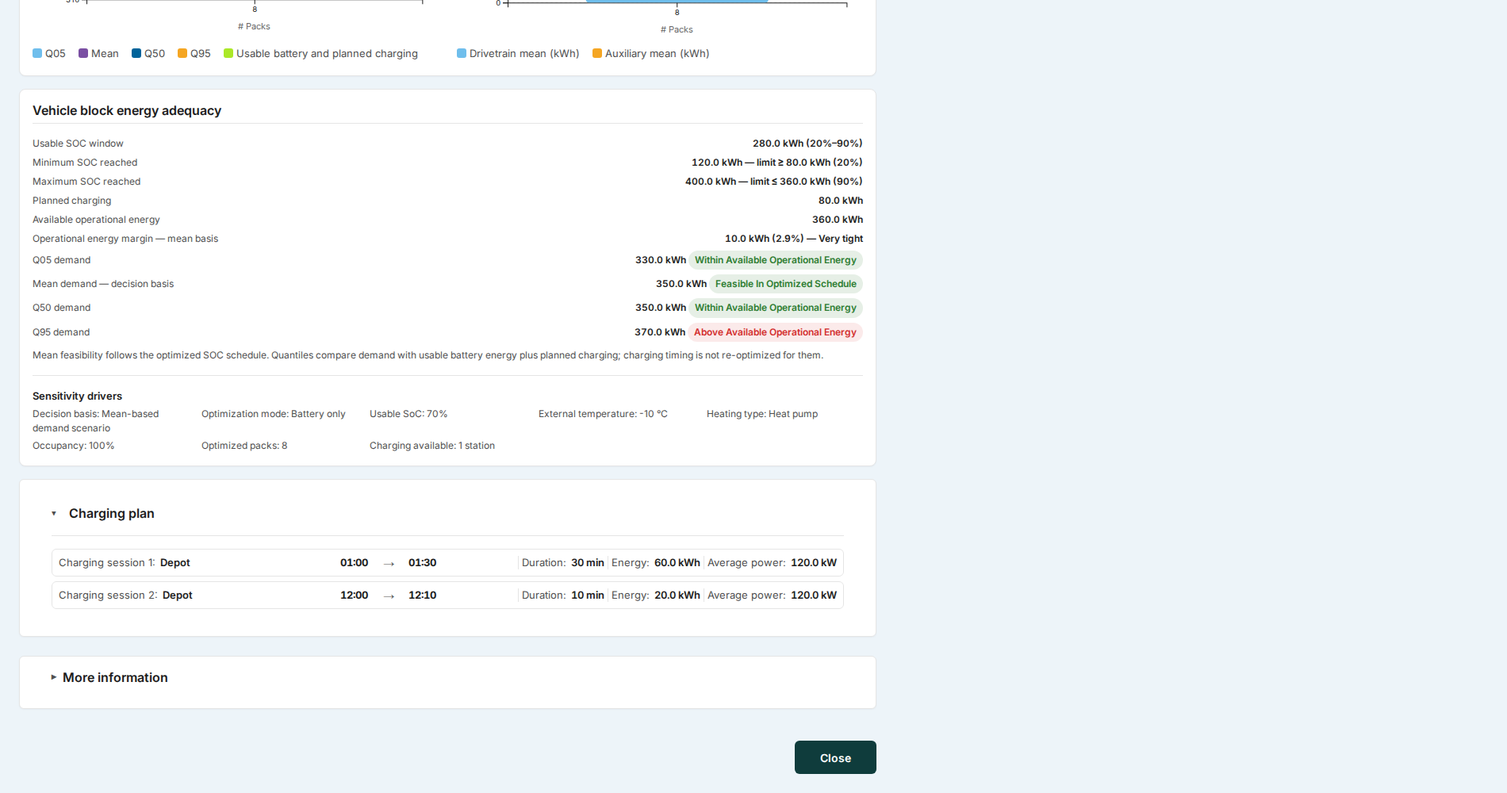
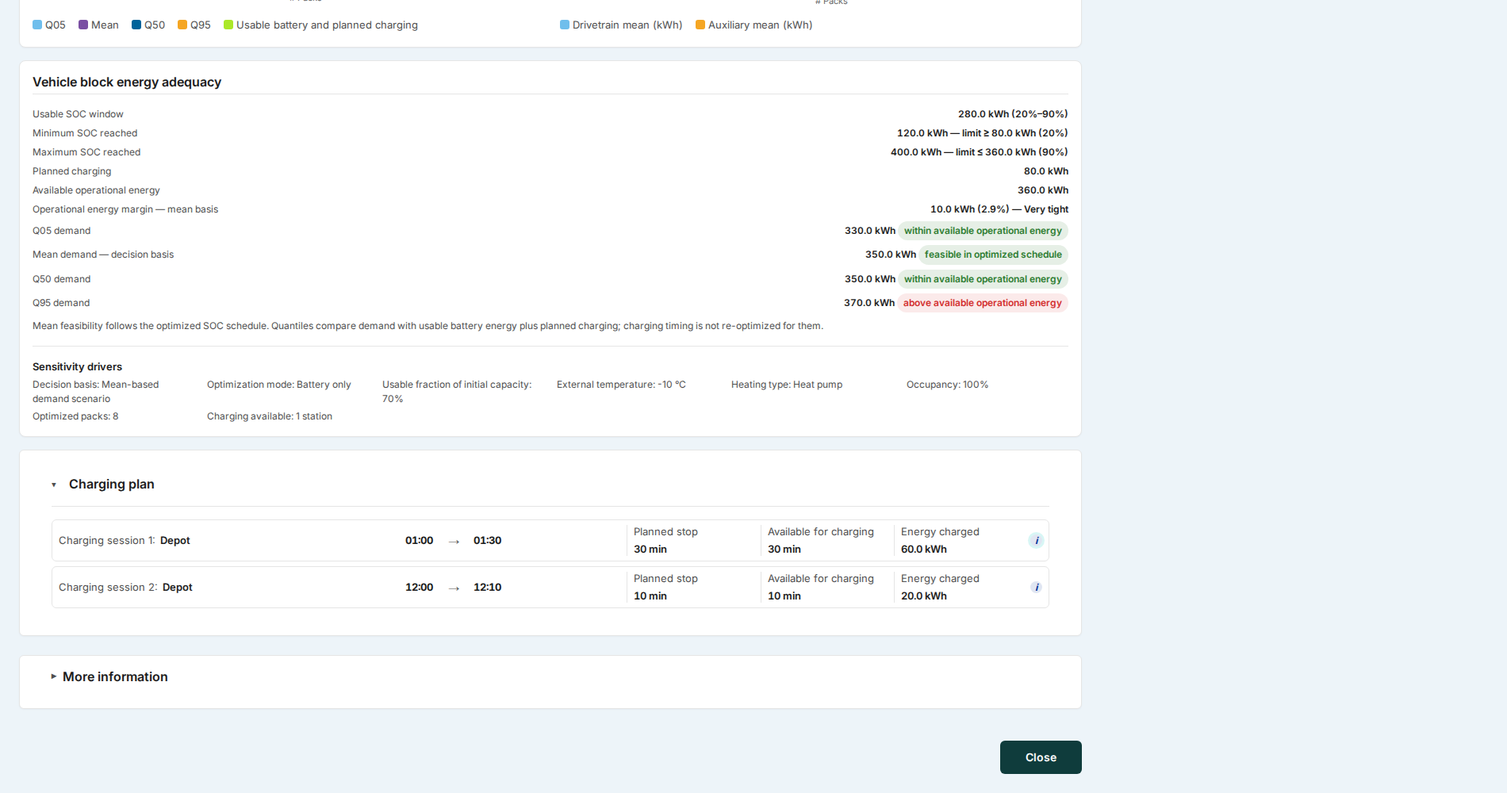
Update user guide for current feasibility and annual results

diff --git a/guide/content.js b/guide/content.js
@@ -1,7 +1,7 @@
 import { useCaseSections } from "./use-cases.js";
 
 export const GUIDE_BASELINE_VERSION = "0.11.0";
-export const GUIDE_UPDATED_AT = "13 November 2026";
+export const GUIDE_UPDATED_AT = "17 November 2026";
 
 export const SUPPORTED_GUIDE_LANGUAGES = ["en", "de", "fr", "it"];
 
@@ -54,10 +54,10 @@ const GUIDE_FIGURES = {
   feasibilityEfficiency: {
     src: feasibilityEfficiencyImage,
     captions: {
-      en: "General feasibility view with compact recorded GTFS provenance, the common battery configuration and shared charging infrastructure.",
-      de: "Allgemeine Machbarkeitsansicht mit kompakter aufgezeichneter GTFS-Herkunft, gemeinsamer Batteriekonfiguration und geteilter Ladeinfrastruktur.",
-      fr: "Vue Général de la faisabilité avec provenance GTFS enregistrée compacte, batterie commune et infrastructure de recharge partagée.",
-      it: "Vista Generale della fattibilità con provenienza GTFS registrata e compatta, configurazione comune della batteria e infrastruttura condivisa.",
+      en: "General feasibility view with compact recorded GTFS provenance, battery configurations and investment for the fleet, shared charging infrastructure, and direct raw-data access in the header.",
+      de: "Allgemeine Machbarkeitsansicht mit kompakter aufgezeichneter GTFS-Herkunft, Batteriekonfigurationen und Investitionen der Flotte, geteilter Ladeinfrastruktur und direktem Rohdatenzugriff im Kopf.",
+      fr: "Vue Général de la faisabilité avec provenance GTFS enregistrée compacte, batteries et investissements de la flotte, infrastructure partagée et accès direct aux données brutes dans l’en-tête.",
+      it: "Vista Generale della fattibilità con provenienza GTFS registrata e compatta, batterie e investimenti della flotta, infrastruttura condivisa e accesso diretto ai dati grezzi nell’intestazione.",
     },
   },
   feasibilitySizing: {
@@ -315,6 +315,7 @@ export const guideContent = {
             title: "Distinguish infeasible from not determined",
             text: "Infeasible means that the optimisation completed and rejected the design. Not determined means that the calculation stopped before producing a feasibility verdict. General lists the outcome of every selected vehicle block; each vehicle-block tab identifies the reason, any blocking vehicle block and translated How to resolve guidance. Correct the indicated source data or configuration, then run a new evaluation. One invalid vehicle block can prevent the others from being evaluated without making them infeasible.",
           },
+          {"title": "Inspect raw feasibility data", "text": "View raw feasibility data is always available at the top right of the page, in place of the close icon, in both General and vehicle-block views. It opens the saved inputs and supporting configuration in a dialog; close the dialog to return to the result. The compact SOH, Technical times, HVAC assumptions and GTFS timetable cards in the header open the corresponding saved assumptions."},
         ],
         figures: getGuideFigures("en", "feasibilityEfficiency", "feasibilitySizing"),
       },
@@ -343,7 +344,7 @@ export const guideContent = {
           },
           {
             title: "Select a vehicle block",
-            text: "A compact white row immediately below the scope selector reports yearly energy, simulated distance and average efficiency. The Efficiency view then shows temperature-dependent consumption, uncertainty and occurrence-weighted energy directly, without a redundant single-item tab.",
+            text: "A compact white row below the HVAC and GTFS information cards reports yearly energy, simulated distance and average efficiency. The Efficiency view then shows temperature-dependent consumption, uncertainty and occurrence-weighted energy directly, without a redundant single-item tab.",
           },
           {
             title: "Check weather and HVAC provenance",
@@ -357,6 +358,8 @@ export const guideContent = {
             title: "Recognise aggregate-only historical results",
             text: "An older analysis that contains no per-vehicle block breakdown can show General only. ELETTRA leaves unavailable vehicle block details absent instead of inventing them from aggregate totals.",
           },
+          {"title": "Set charging infrastructure maintenance", "text": "In Costs → Edit economic assumptions → Additional economic parameters, choose a percentage of charging investment per year or a fixed amount in CHF/year. The percentage is editable: 2%/year is the default, with the INFRAS 2026 reference range of 2–5%. It is not CHF 2/year. Check the saved method and units, especially for historical analyses; a fixed amount of zero means no infrastructure maintenance cost is included. The percentage applies to the full charging investment and maintenance is counted once per fleet, excluding buses and batteries; the tooltip explains this modelling assumption."},
+          {"title": "Read the calculation boundaries", "text": "Additional economic parameters contains the editable maintenance method, horizon, discount rate, diesel purchase price and component lifetimes. Calculation method and boundaries separately explains TCO, time horizon, residual values and assessment limits; use it to interpret the results."},
         ],
         figures: getGuideFigures("en", "yearlyEfficiency", "yearlyEmissions"),
         note: {
@@ -430,7 +433,7 @@ export const guideContent = {
       baselineLabel: "Stand der Benutzeroberfläche",
       baselineValue: `Frontend v${GUIDE_BASELINE_VERSION}`,
       updatedLabel: "Handbuch aktualisiert",
-      updatedValue: "13. November 2026",
+      updatedValue: "17. November 2026",
       footer:
         "ELETTRA unterstützt Vorstudien. Endgültige Fahrzeug-, Lade-, Netz- und Infrastrukturentscheidungen müssen durch eine detaillierte Fachplanung bestätigt werden.",
       skipLink: "Zum Handbuch springen",
@@ -539,6 +542,7 @@ export const guideContent = {
           { title: "Ladeplan prüfen", text: "Prüfen Sie Ort, Zeit und Tagesversatz jedes Ladevorgangs. Karten zeigen nur Geplanter Halt, Zum Laden verfügbar und Geladene Energie. Der Tooltip Ladedetails enthält Anschliessen/Trennen, Verspätungspuffer, aktive und inaktive Ladezeit sowie mittlere Leistung. Die verfügbare Zeit gilt nach Abzügen; das tatsächliche Laden kann kürzer sein. Bei Verbindung während des gesamten Halts ist der geplante Halt gemeint; historische frei verbundene Vorgänge können nur das angeschlossene Intervall beschreiben. Nur Batterie kann einen festen oder keinen Plan zeigen." },
           { title: "Bei Bedarf Weitere Informationen öffnen", text: "Ladeplan und Weitere Informationen sind aufklappbare weisse Karten. Sie enthalten Ladevorgänge, Prognosedetails, Betriebsannahmen, konfigurierte SOC-Grenzen und unterstützende Werte. Wenn ein Fahrzeugumlauf nicht abgedeckt ist, ändern Sie Fahrzeug, Ladezustandsfenster, Szenario oder Ladeauslegung und führen Sie eine separat benannte Bewertung aus." },
           { title: "Nicht machbar und Nicht bestimmt unterscheiden", text: "Nicht machbar bedeutet, dass die Optimierung abgeschlossen und die Auslegung verworfen wurde. Nicht bestimmt bedeutet, dass die Berechnung vor einem Machbarkeitsurteil abgebrochen ist. Allgemein zeigt das Ergebnis jedes ausgewählten Fahrzeugumlaufs; die jeweilige Registerkarte nennt den Grund, blockierende Fahrzeugumläufe und übersetzte Hinweise unter So beheben Sie das Problem. Korrigieren Sie die angegebenen Ausgangsdaten oder die Konfiguration und starten Sie eine neue Bewertung. Ein ungültiger Fahrzeugumlauf kann die Bewertung der anderen verhindern, ohne dass diese dadurch nicht machbar sind." },
+          {"title": "Rohdaten der Machbarkeit prüfen", "text": "Rohdaten der Machbarkeitsbewertung anzeigen steht oben rechts anstelle des Schliessen-Symbols zur Verfügung, sowohl unter Allgemein als auch bei jedem Fahrzeugumlauf. Die Schaltfläche öffnet gespeicherte Eingaben und Konfigurationsdetails in einem Dialog; schliessen Sie ihn, um zum Ergebnis zurückzukehren. Die kompakten Karten für SOH, technische Zeiten, HVAC-Annahmen und GTFS-Fahrplan im Kopf öffnen die jeweiligen gespeicherten Annahmen."},
         ],
         figures: getGuideFigures("de", "feasibilityEfficiency", "feasibilitySizing"),
       },
@@ -552,10 +556,12 @@ export const guideContent = {
           { title: "Übernommene Eingaben prüfen", text: "Prüfen Sie Bewertung, Betriebsannahmen, repräsentative Temperaturen und deren Häufigkeiten vor dem Start. Temperaturszenarien verändern Verbrauchsschätzungen; sie dimensionieren die Batterie nicht neu, ändern die Ladeinfrastruktur nicht und wiederholen die Machbarkeitsentscheidung nicht." },
           { title: "Mit Allgemein beginnen", text: "Die kompakte jährliche Flottenanalyse zeigt Distanz, Bus- und Netzenergie, minimale/maximale Umlaufeffizienz, Elektro-TCO und Klimawirkung. Mit Repräsentativer Bus / Flotte prüfen Sie die gesamte Flotte oder eine Gruppe mit gleichem Modell und gleicher Batteriegrösse; die Zuweisungen aus der Machbarkeit bleiben unverändert." },
           { title: "Kosten und Emissionen der Flotte prüfen", text: "Kosten kombiniert eine kompakte TCO-Zeile, Jahres- und kumulative Diagramme, Kostengleichheit und Detailtabellen. Bus- und Batterie-CAPEX gehören vollständig zu den physischen Fahrzeugen im gewählten Bereich; die gemeinsame Ladeinfrastruktur wird einmal für die Flotte gezählt und nur ihre Kosten werden repräsentativen Busgruppen auf Basis der jährlichen DC-Energie zugeordnet. Emissionen zeigt Balken nach Lebenszyklusphase und Umweltindikatoren. Die aufklappbaren Annahmen stehen unter den Diagrammen, verwenden automatisch gespeicherte gemeinsame Werte und starten die Machbarkeit nie neu." },
-          { title: "Einen Fahrzeugumlauf auswählen", text: "Direkt unter der Bereichsauswahl zeigt eine kompakte weisse Zeile Jahresenergie, simulierte Distanz und mittlere Effizienz. Danach erscheint Effizienz mit temperaturabhängigem Verbrauch, Unsicherheit und häufigkeitsgewichteter Energie direkt, ohne überflüssige Registerkarte mit nur einem Eintrag." },
+          { title: "Einen Fahrzeugumlauf auswählen", text: "Unter den HVAC- und GTFS-Informationskarten zeigt eine kompakte weisse Zeile Jahresenergie, simulierte Distanz und mittlere Effizienz. Danach erscheint Effizienz mit temperaturabhängigem Verbrauch, Unsicherheit und häufigkeitsgewichteter Energie direkt, ohne überflüssige Registerkarte mit nur einem Eintrag." },
           { title: "Wetter- und HVAC-Herkunft prüfen", text: "Die kompakten GTFS- und HVAC-Angaben nennen Fahrplan und gespeicherte Nebenverbrauchspolitik. Die Jahresanalyse verwendet stündliche PVGIS-GHI in der lokalen GTFS-Zeitzone und weist HVAC-Energie während Fahrt und Endaufenthalt aus; Nachvollziehbarkeit und JSON-Aktionen liefern Annahmen und vollständige Reproduktionseingaben." },
           { title: "Konfiguration prüfen und unter Allgemein exportieren", text: "Konfigurationsdaten anzeigen öffnet die festgeschriebene Auslegung. Alle Ergebnisse herunterladen steht nur unter Allgemein neben Schliessen zur Verfügung und speichert Allgemein sowie einen eigenen Eintrag für jeden verfügbaren Fahrzeugumlauf." },
           { title: "Nur aggregierte historische Ergebnisse erkennen", text: "Eine ältere Analyse ohne Aufschlüsselung nach Fahrzeugumläufen kann nur Allgemein anzeigen. ELETTRA lässt nicht verfügbare Fahrzeugumlaufdetails weg, statt sie aus Gesamtsummen zu erfinden." },
+          {"title": "Wartung der Ladeinfrastruktur einstellen", "text": "Unter Kosten → Wirtschaftliche Annahmen bearbeiten → Weitere wirtschaftliche Parameter wählen Sie einen jährlichen Prozentsatz der Ladeinvestition oder einen Festbetrag in CHF/Jahr. Der Prozentsatz ist editierbar: Standard sind 2%/Jahr, mit dem INFRAS-2026-Richtbereich von 2–5%. Das bedeutet nicht CHF 2/Jahr. Prüfen Sie gespeicherte Methode und Einheiten, besonders bei älteren Analysen; ein Festbetrag von null berücksichtigt keine Infrastrukturwartung. Die Prozentmethode bezieht sich auf die gesamte Ladeinvestition; Wartung wird einmal pro Flotte gezählt, ohne Busse und Batterien. Der Tooltip erklärt diese Modellannahme."},
+          {"title": "Berechnungsgrenzen lesen", "text": "Weitere wirtschaftliche Parameter enthält die editierbare Wartungsmethode, Betrachtungsdauer, den Diskontsatz, Diesel-Kaufpreis und Komponentenlebensdauern. Berechnungsmethode und Abgrenzung erklärt separat TCO, Zeitrahmen, Restwerte und Bewertungsgrenzen zur Interpretation der Ergebnisse."},
         ],
         figures: getGuideFigures("de", "yearlyEfficiency", "yearlyEmissions"),
         note: { title: "Fahrzeug hier nicht neu dimensionieren", text: "Die Jahresanalyse beschreibt den Betrieb des an der Machbarkeitsschwelle gewählten Designs. Kehren Sie zur Machbarkeitsbewertung zurück, wenn Fahrzeug, Batterie oder Laden geändert werden sollen." },
@@ -600,7 +606,7 @@ export const guideContent = {
       baselineLabel: "Version de référence de l’interface",
       baselineValue: `Frontend v${GUIDE_BASELINE_VERSION}`,
       updatedLabel: "Guide mis à jour",
-      updatedValue: "13 novembre 2026",
+      updatedValue: "17 novembre 2026",
       footer:
         "ELETTRA soutient les études de préfaisabilité. Les décisions finales relatives aux véhicules, à la recharge, au réseau et aux infrastructures doivent être confirmées par des études d’ingénierie détaillées.",
       skipLink: "Accéder au guide",
@@ -695,6 +701,7 @@ export const guideContent = {
           { title: "Contrôler le plan de recharge", text: "Vérifiez lieu, heure et décalage de jour de chaque session. Les cartes affichent uniquement Arrêt planifié, Disponible pour la recharge et Énergie rechargée. L’infobulle Détails de recharge contient connexion/déconnexion, marge pour retards, durées active et inactive, et puissance moyenne. Le temps disponible tient compte des déductions ; la recharge effective peut être plus courte. La connexion pendant tout l’arrêt décrit l’arrêt planifié ; les anciennes sessions à connexion libre peuvent décrire seulement l’intervalle connecté. Batterie uniquement peut afficher un plan fixe ou absent." },
           { title: "Ouvrir Plus d’informations si nécessaire", text: "Plan de recharge et Plus d’informations sont des cartes blanches dépliables. Elles contiennent sessions, détails des prévisions, hypothèses d’exploitation, limites SOC configurées et valeurs justificatives. Si un service voiture échoue, modifiez le véhicule, la fenêtre d’état de charge, le scénario ou la recharge et lancez une évaluation portant un autre nom." },
           { title: "Distinguer non faisable de non déterminée", text: "Non faisable signifie que l’optimisation s’est terminée et a rejeté le dimensionnement. Non déterminée signifie que le calcul s’est arrêté avant de produire un verdict de faisabilité. Général présente le résultat de chaque service voiture sélectionné; l’onglet correspondant indique le motif, les services bloquants et des conseils traduits sous Comment résoudre le problème. Corrigez les données sources ou la configuration indiquées, puis lancez une nouvelle évaluation. Un service voiture non valide peut empêcher l’évaluation des autres sans les rendre non faisables." },
+          {"title": "Consulter les données brutes de faisabilité", "text": "Afficher les données brutes de faisabilité est disponible en haut à droite, à la place de l’icône de fermeture, dans Général comme dans chaque service voiture. Le bouton ouvre les entrées enregistrées et la configuration détaillée dans une fenêtre ; fermez-la pour revenir au résultat. Les cartes compactes SOH, Temps techniques, Hypothèses HVAC et Horaire GTFS de l’en-tête ouvrent les hypothèses enregistrées correspondantes."},
         ],
         figures: getGuideFigures("fr", "feasibilityEfficiency", "feasibilitySizing"),
       },
@@ -708,10 +715,12 @@ export const guideContent = {
           { title: "Vérifier les données héritées", text: "Contrôlez l’évaluation, les hypothèses d’exploitation, les températures représentatives et leurs occurrences avant le calcul. Les scénarios de température modifient la consommation; ils ne redimensionnent pas la batterie, ne changent pas l’infrastructure et ne répètent pas la décision de faisabilité." },
           { title: "Commencer par Général", text: "L’analyse annuelle compacte de la flotte présente distance, énergie au bus et au réseau, efficacité minimale/maximale des services, TCO électrique et impact climatique. Bus représentatif / Flotte permet d’examiner la flotte entière ou un groupe partageant modèle et taille de batterie; les affectations de faisabilité ne changent pas." },
           { title: "Examiner les Coûts et les Émissions de la flotte", text: "Coûts combine une ligne TCO compacte, des graphiques annuels et cumulés, le seuil de rentabilité et des tableaux détaillés. Les CAPEX des bus et batteries appartiennent intégralement aux véhicules physiques du périmètre; l’infrastructure partagée est comptée une fois pour la flotte et seul son coût est attribué aux groupes représentatifs selon l’énergie DC annuelle. Émissions montre les barres par phase du cycle de vie et les indicateurs environnementaux. Les hypothèses dépliables sont sous les graphiques, partagent des valeurs enregistrées automatiquement et ne relancent jamais la faisabilité." },
-          { title: "Sélectionner un service voiture", text: "Une ligne blanche compacte, directement sous le sélecteur, indique énergie annuelle, distance simulée et efficacité moyenne. Efficacité présente ensuite directement consommation selon la température, incertitude et énergie pondérée, sans onglet redondant à élément unique." },
+          { title: "Sélectionner un service voiture", text: "Une ligne blanche compacte, sous les volets HVAC et GTFS, indique énergie annuelle, distance simulée et efficacité moyenne. Efficacité présente ensuite directement consommation selon la température, incertitude et énergie pondérée, sans onglet redondant à élément unique." },
           { title: "Vérifier la provenance météo et HVAC", text: "Les volets GTFS et HVAC compacts identifient l’horaire et la politique d’auxiliaires enregistrés. L’analyse annuelle utilise le GHI PVGIS horaire dans le fuseau GTFS local et indique l’énergie HVAC en course et au terminus; la traçabilité et les actions JSON donnent les hypothèses et les entrées complètes de reproduction." },
           { title: "Examiner la configuration et exporter depuis Général", text: "Afficher les données de configuration ouvre le dimensionnement figé. Télécharger tous les résultats apparaît uniquement dans Général, près de Fermer, et enregistre Général ainsi qu’une entrée distincte pour chaque service voiture disponible." },
           { title: "Reconnaître les anciens résultats uniquement agrégés", text: "Une ancienne analyse sans ventilation par service voiture peut n’afficher que Général. ELETTRA laisse absents les détails indisponibles au lieu de les inventer à partir des totaux." },
+          {"title": "Définir la maintenance de la recharge", "text": "Dans Coûts → Modifier les hypothèses économiques → Paramètres économiques supplémentaires, choisissez un pourcentage annuel de l’investissement de recharge ou un montant fixe en CHF/an. Le pourcentage est modifiable : 2%/an est la valeur initiale, avec la référence INFRAS 2026 de 2–5%. Il ne s’agit pas de CHF 2/an. Vérifiez la méthode enregistrée et les unités, surtout pour les anciennes analyses ; un montant fixe nul exclut la maintenance de l’infrastructure. Le pourcentage porte sur l’investissement complet de recharge, avec un entretien compté une seule fois par flotte, hors bus et batteries ; l’infobulle explique cette hypothèse."},
+          {"title": "Lire le périmètre de calcul", "text": "Paramètres économiques supplémentaires contient la méthode de maintenance, l’horizon, le taux d’actualisation, le prix d’achat diesel et les durées de vie modifiables. Méthode de calcul et périmètre explique séparément TCO, horizon temporel, valeurs résiduelles et limites de l’évaluation pour interpréter les résultats."},
         ],
         figures: getGuideFigures("fr", "yearlyEfficiency", "yearlyEmissions"),
         note: { title: "Ne pas redimensionner le véhicule ici", text: "L’analyse annuelle représente l’exploitation du design retenu lors de l’évaluation de faisabilité. Revenez à cette évaluation si le véhicule, la batterie ou la recharge doivent changer." },
@@ -756,7 +765,7 @@ export const guideContent = {
       baselineLabel: "Versione di riferimento dell’interfaccia",
       baselineValue: `Frontend v${GUIDE_BASELINE_VERSION}`,
       updatedLabel: "Guida aggiornata",
-      updatedValue: "13 novembre 2026",
+      updatedValue: "17 novembre 2026",
       footer:
         "ELETTRA supporta studi di prefattibilità. Le decisioni finali su veicoli, ricarica, rete e infrastrutture devono essere confermate mediante una progettazione tecnica dettagliata.",
       skipLink: "Vai alla guida",
@@ -851,6 +860,7 @@ export const guideContent = {
           { title: "Verificare il piano di ricarica", text: "Controllare luogo, ora e giorno di ogni sessione. Le schede mostrano solo Sosta pianificata, Disponibile per la ricarica ed Energia ricaricata. Il tooltip Dettagli di ricarica contiene collegamento/scollegamento, margine per ritardi, tempo attivo e inattivo e potenza media. Il tempo disponibile considera le detrazioni; la ricarica effettiva può durare meno. Con connessione per l’intera sosta si descrive la sosta pianificata; le sessioni storiche a connessione libera possono descrivere solo l’intervallo connesso. Solo batteria può mostrare un piano fisso o assente." },
           { title: "Aprire Maggiori informazioni quando serve", text: "Piano di ricarica e Maggiori informazioni sono schede bianche espandibili. Contengono sessioni, dettagli delle previsioni, ipotesi operative, limiti SOC configurati e valori di supporto. Se un turno macchina non è coperto, modificare veicolo, intervallo SOC, scenario o progetto di ricarica ed eseguire una valutazione con un nome distinto." },
           { title: "Distinguere non fattibile da non determinata", text: "Non fattibile significa che l’ottimizzazione è terminata e ha escluso la configurazione. Non determinata significa che il calcolo si è interrotto prima di produrre un verdetto di fattibilità. Generale mostra l’esito di ogni turno macchina selezionato; la relativa scheda indica il motivo, gli eventuali turni bloccanti e i suggerimenti tradotti sotto Come risolvere. Correggere i dati di origine o la configurazione indicati, quindi eseguire una nuova valutazione. Un turno macchina non valido può impedire la valutazione degli altri senza renderli non fattibili." },
+          {"title": "Consultare i dati grezzi di fattibilità", "text": "Visualizza i dati grezzi di fattibilità è sempre disponibile in alto a destra, al posto dell’icona di chiusura, sia in Generale sia nei singoli turni macchina. Il pulsante apre gli input salvati e i dettagli di configurazione in una finestra; chiuderla per tornare ai risultati. I riquadri compatti SOH, Tempi tecnici, Ipotesi HVAC e Orario GTFS nell’intestazione aprono le rispettive ipotesi salvate."},
         ],
         figures: getGuideFigures("it", "feasibilityEfficiency", "feasibilitySizing"),
       },
@@ -864,10 +874,12 @@ export const guideContent = {
           { title: "Verificare gli input ereditati", text: "Controllare la valutazione, le ipotesi operative, le temperature rappresentative e le loro occorrenze prima dell’avvio. Gli scenari di temperatura cambiano le stime di consumo; non ridimensionano la batteria, non modificano l’infrastruttura e non ripetono la decisione di fattibilità." },
           { title: "Iniziare da Generale", text: "L’Analisi annuale della flotta mostra in modo compatto distanza, energia ai bus e dalla rete, efficienza minima/massima dei turni, TCO elettrico e impatto climatico. Bus rappresentativo / Flotta consente di esaminare la flotta completa o un gruppo con lo stesso modello e la stessa batteria; le assegnazioni della fattibilità non cambiano." },
           { title: "Esaminare Costi ed Emissioni della flotta", text: "Costi combina una riga TCO compatta, grafici annui e cumulati, pareggio e tabelle di dettaglio. I CAPEX di autobus e batterie appartengono integralmente ai veicoli fisici nell’ambito selezionato; l’infrastruttura condivisa è conteggiata una sola volta per la flotta e solo il suo costo viene allocato ai gruppi rappresentativi in base all’energia DC annuale. Emissioni mostra barre per fase del ciclo di vita e indicatori ambientali. Le ipotesi espandibili sono sotto i grafici, condividono valori salvati automaticamente e non rilanciano mai la fattibilità." },
-          { title: "Selezionare un turno macchina", text: "Una riga bianca compatta subito sotto il selettore riporta energia annuale, distanza simulata ed efficienza media. Efficienza mostra quindi direttamente consumo in funzione della temperatura, incertezza ed energia ponderata, senza una tab ridondante con un solo elemento." },
+          { title: "Selezionare un turno macchina", text: "Una riga bianca compatta sotto i riquadri informativi HVAC e GTFS riporta energia annuale, distanza simulata ed efficienza media. Efficienza mostra quindi direttamente consumo in funzione della temperatura, incertezza ed energia ponderata, senza una tab ridondante con un solo elemento." },
           { title: "Verificare la provenienza meteo e HVAC", text: "I riquadri compatti GTFS e HVAC identificano orario e politica degli ausiliari salvati. L’analisi annuale usa il GHI orario PVGIS nel fuso GTFS locale e riporta energia HVAC in corsa e al capolinea; tracciabilità e azioni JSON espongono ipotesi e input completi di riproduzione." },
           { title: "Esaminare la configurazione ed esportare da Generale", text: "Visualizza dati di configurazione apre il progetto congelato. Scarica tutti i risultati compare solo in Generale, vicino a Chiudi, e salva Generale più una voce separata per ogni turno macchina disponibile." },
           { title: "Riconoscere i risultati storici solo aggregati", text: "Un’analisi precedente priva del dettaglio per turno macchina può mostrare soltanto Generale. ELETTRA lascia assenti i dettagli non disponibili invece di ricavarli artificialmente dai totali." },
+          {"title": "Impostare la manutenzione della ricarica", "text": "In Costi → Modifica ipotesi economiche → Parametri economici aggiuntivi, scegliere una percentuale annua dell’investimento di ricarica oppure un importo fisso in CHF/anno. La percentuale è modificabile: il valore iniziale è 2%/anno, con riferimento all’intervallo INFRAS 2026 del 2–5%. Non significa CHF 2/anno. Verificare metodo salvato e unità, soprattutto nelle analisi storiche; un importo fisso pari a zero esclude il costo di manutenzione dell’infrastruttura. La percentuale si applica all’investimento completo della ricarica, con manutenzione conteggiata una volta per flotta, esclusi autobus e batterie; il tooltip spiega questa ipotesi di modello."},
+          {"title": "Leggere il perimetro di calcolo", "text": "Parametri economici aggiuntivi contiene metodo di manutenzione, orizzonte, tasso di sconto, prezzo di acquisto diesel e durate dei componenti modificabili. Metodo di calcolo e perimetro spiega separatamente TCO, tempi, valori residui e limiti della valutazione per interpretare i risultati."},
         ],
         figures: getGuideFigures("it", "yearlyEfficiency", "yearlyEmissions"),
         note: { title: "Non ridimensionare qui il veicolo", text: "L’analisi annuale rappresenta l’esercizio del progetto scelto nella valutazione di fattibilità. Tornare alla fattibilità se occorre cambiare veicolo, batteria o ricarica." },

diff --git a/docs/user-guide/yearly-analysis.md b/docs/user-guide/yearly-analysis.md
@@ -1,6 +1,6 @@
 # Yearly Analysis
 
-> Last updated: 2026-11-10
+> Last updated: 2026-11-17
 > Interface baseline: Frontend v0.11.0
 
 A yearly analysis keeps the bus, battery, and charging design selected by a
@@ -94,6 +94,23 @@ are saved automatically in the yearly analysis and reused by Costs and
 Emissions. They update the displayed assessment but do not rerun feasibility or
 alter the selected technical design.
 
+Inside this card, **Additional economic parameters** contains maintenance,
+the assessment horizon, discount rate, diesel purchase price and component
+lifetimes. **Calculation method and boundaries** is a separate explanatory
+disclosure covering TCO, time horizon, residual values and assessment limits.
+
+For charging infrastructure maintenance, select either an editable percentage
+of charging investment per year or a fixed amount in CHF/year. The default
+percentage is **2%/year**, with the INFRAS 2026 reference range of **2–5%**.
+This is not a default of CHF 2/year. Historical analyses retain their saved
+method and values; a fixed amount of zero excludes infrastructure maintenance.
+Check the selected method and its units when reviewing an older analysis.
+
+The percentage applies to the full charging investment, including chargers,
+shared works and connection. Maintenance is counted once per fleet, excluding
+buses and batteries. The tooltip beside the reference explains this modelling
+assumption.
+
 ### Emissions
 
 The Emissions view presents climate impact by lifecycle phase, energy boundary,
@@ -118,7 +135,7 @@ kept missing: affected reductions are omitted instead of treating it as zero.
 
 ## Vehicle-block efficiency
 
-Select a named vehicle block. Directly below the scope selector, a compact
+Select a named vehicle block. Below the HVAC and GTFS information cards, a compact
 white summary reports annual energy, simulated distance, and average
 efficiency. The efficiency content is shown directly, without another
 single-item tab.

diff --git a/docs/user-guide/simulation-results.md b/docs/user-guide/simulation-results.md
@@ -1,6 +1,6 @@
 # Feasibility Results
 
-> Last updated: 2026-11-09
+> Last updated: 2026-11-17
 > Interface baseline: Frontend v0.11.0
 
 The feasibility result page is the technical gate between service preparation
@@ -12,12 +12,14 @@ analysis.
 
 ## Result navigation
 
-The page header provides three independent contexts:
+The page header provides four independent contexts:
 
 1. **Result scope** — **General** or one named vehicle block.
 2. **Consumption basis** — **Mean** or **Q95** for paired evaluations.
 3. **GTFS provenance** — the timetable edition recorded when the evaluation
    was created.
+4. **Operating assumptions** — compact SOH, Technical times and HVAC cards
+   open the corresponding saved battery, timing and auxiliary-energy assumptions.
 
 Changing Mean/Q95 opens the complete optimized design for that profile,
 including its battery, charger configuration, and charging schedule. It does
@@ -166,10 +168,13 @@ The compact GTFS disclosure shows the edition recorded at evaluation creation.
 For historical results without a complete snapshot, the interface explicitly
 labels provenance derived from current vehicle-block data.
 
-**View raw feasibility data** opens supporting configuration panels for general
+**View raw feasibility data** is always visible at the top right of the page,
+in place of the close icon, in both General and individual vehicle-block views.
+It opens a dialog with supporting configuration panels for general
 inputs, bus information, charging-station information, scenario/scaling data,
 and investment breakdown. Use these values to audit the displayed result, not
-to replace the result's status and provenance labels.
+to replace the result's status and provenance labels. Close the dialog to
+return to the result; no additional disclosure needs to be opened first.
 
 ---
 
